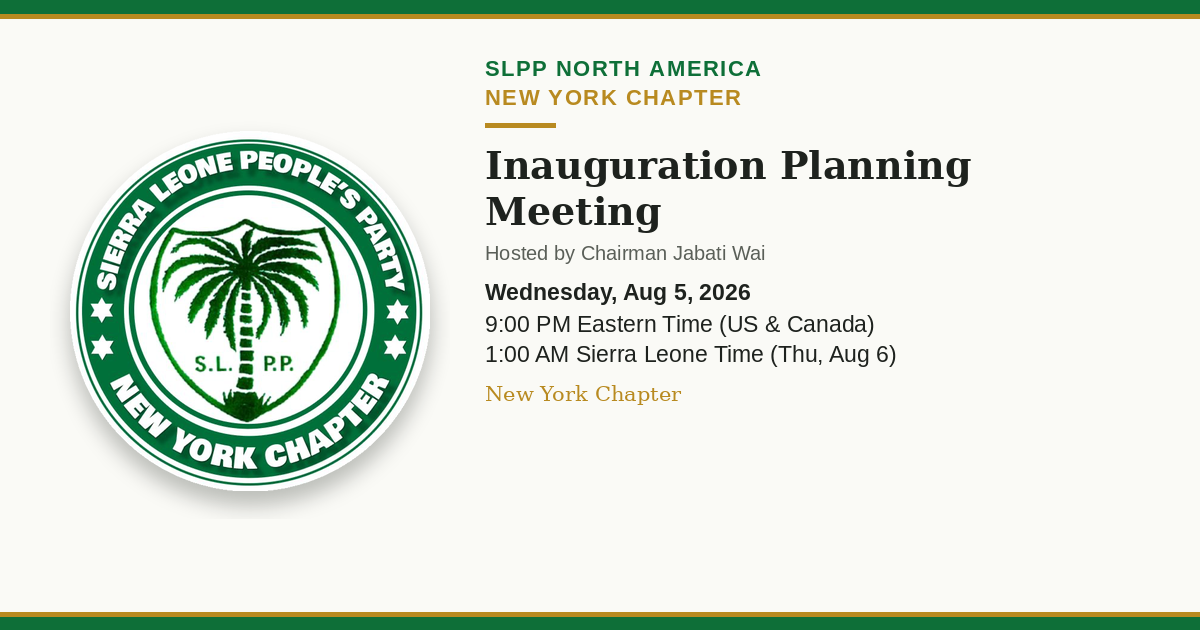
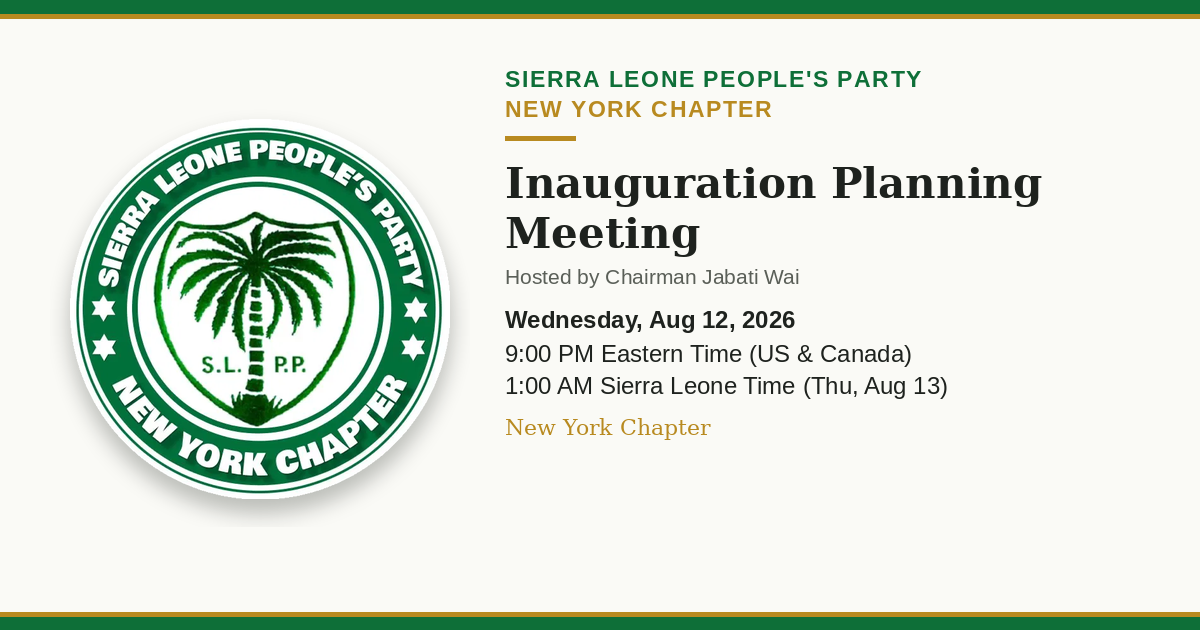
Add files via upload

Changed region(s): [[0.0617, 0.0905, 0.8633, 0.8143], [0.4008, 0.6635, 0.5858, 0.6937]]

diff --git a/slpp-invite.html b/slpp-invite.html
@@ -3,20 +3,20 @@
 <head>
 <meta charset="UTF-8">
 <meta name="viewport" content="width=device-width, initial-scale=1.0">
-<title>SLPP North America — New York Chapter Inauguration Planning Meeting — Aug 5, 2026</title>
-<meta name="description" content="Chairman Jabati Wai invites you to the SLPP North America, New York Chapter Inauguration Planning Meeting on Zoom, Wednesday August 5, 2026 at 9:00 PM Eastern Time.">
+<title>SLPP New York Chapter Inauguration Planning — Aug 12, 2026</title>
+<meta name="description" content="Chairman Jabati Wai invites you to the SLPP New York Chapter Inauguration Planning meeting on Zoom, Wednesday August 12, 2026 at 9:00 PM Eastern Time.">
 
 <!-- Open Graph -->
 <meta property="og:type" content="website">
-<meta property="og:title" content="SLPP NY Chapter Inauguration Planning Meeting — Aug 5, 2026, 9:00 PM ET">
-<meta property="og:description" content="Chairman Jabati Wai invites you to the SLPP North America, New York Chapter Inauguration Planning Meeting on Zoom. Tap to join instantly — no code or passcode needed.">
+<meta property="og:title" content="SLPP NY Chapter Inauguration Planning — Aug 12, 2026, 9:00 PM ET">
+<meta property="og:description" content="Chairman Jabati Wai invites you to the SLPP New York Chapter Inauguration Planning meeting on Zoom. Tap to join instantly — no code or passcode needed.">
 <meta property="og:image" content="https://slppnewyorkchapter.github.io/slpp-og-image.png">
 <meta property="og:image:width" content="1200">
 <meta property="og:image:height" content="630">
 <meta property="og:url" content="https://slppnewyorkchapter.github.io/slpp-invite.html">
 <meta name="twitter:card" content="summary_large_image">
-<meta name="twitter:title" content="SLPP NY Chapter Inauguration Planning Meeting — Aug 5, 2026, 9:00 PM ET">
-<meta name="twitter:description" content="Chairman Jabati Wai invites you to the SLPP North America, New York Chapter Inauguration Planning Meeting on Zoom. Tap to join instantly.">
+<meta name="twitter:title" content="SLPP NY Chapter Inauguration Planning — Aug 12, 2026, 9:00 PM ET">
+<meta name="twitter:description" content="Chairman Jabati Wai invites you to the SLPP New York Chapter Inauguration Planning meeting on Zoom. Tap to join instantly.">
 <meta name="twitter:image" content="https://slppnewyorkchapter.github.io/slpp-og-image.png">
 
 <link rel="icon" type="image/png" href="slpp-logo.png">
@@ -285,7 +285,7 @@
   </div>
 
   <div class="card">
-    <div class="eyebrow">SLPP North America</div>
+    <div class="eyebrow">Sierra Leone People's Party</div>
     <div class="eyebrow sub">New York Chapter</div>
     <h1>Inauguration Planning Meeting</h1>
     <div class="host">Hosted by <strong>Chairman Jabati Wai</strong></div>
@@ -299,9 +299,9 @@
         </svg>
       </div>
       <div class="dt-text">
-        <div class="day">Wednesday, August 5, 2026</div>
+        <div class="day">Wednesday, August 12, 2026</div>
         <div class="tz-row"><span class="tz-time">9:00 PM</span><span class="tz">Eastern Time (US &amp; Canada)</span></div>
-        <div class="tz-row"><span class="tz-time">1:00 AM</span><span class="tz">Sierra Leone Time (Thu, Aug 6)</span></div>
+        <div class="tz-row"><span class="tz-time">1:00 AM</span><span class="tz">Sierra Leone Time (Thu, Aug 13)</span></div>
       </div>
     </div>
 
@@ -322,7 +322,7 @@
     <div class="actions">
       <!-- Primary Zoom link: password already embedded via pwd= param, so it joins with no code required -->
       <a class="btn btn-primary"
-         href="https://us06web.zoom.us/j/83624595206?pwd=4uRx6MqlddrVEntzf6ZRnTEw3Uije9.1"
+         href="https://us06web.zoom.us/j/81915607656?pwd=63GXNKTTQxVfWy9glnFQfopH2DIaDZ.1"
          target="_blank" rel="noopener">
         <svg viewBox="0 0 24 24" fill="none" xmlns="http://www.w3.org/2000/svg">
           <rect x="2" y="6" width="14" height="12" rx="3" fill="white"/>
@@ -333,7 +333,7 @@
 
       <!-- One-tap mobile dial: comma-encoded tel: link auto-enters Meeting ID + passcode -->
       <a class="btn btn-secondary"
-         href="tel:+16469313860,,83624595206%23,,,,*196787%23">
+         href="tel:+16469313860,,81915607656%23,,,,*162760%23">
         <svg viewBox="0 0 24 24" fill="none" xmlns="http://www.w3.org/2000/svg">
           <path d="M6.6 10.8C7.9 13.4 10.6 16.1 13.2 17.4L15.3 15.3C15.6 15 16 14.9 16.4 15.1C17.6 15.6 18.9 15.9 20.2 15.9C20.8 15.9 21.3 16.4 21.3 17V20.4C21.3 21 20.8 21.5 20.2 21.5C10.6 21.5 2.9 13.8 2.9 4.2C2.9 3.6 3.4 3.1 4 3.1H7.4C8 3.1 8.5 3.6 8.5 4.2C8.5 5.5 8.8 6.8 9.3 8C9.5 8.4 9.4 8.8 9.1 9.1L6.6 10.8Z" stroke="#0e6f38" stroke-width="1.6" stroke-linejoin="round"/>
         </svg>
@@ -344,16 +344,16 @@
 
     <div class="details">
       <div class="details-title">Meeting details</div>
-      <div class="kv"><span class="k">Meeting ID</span><span class="v">836 2459 5206</span></div>
-      <div class="kv"><span class="k">Passcode</span><span class="v">196787</span></div>
-      <div class="kv"><span class="k">Alt. one-tap (NY)</span><span class="v"><a style="color:inherit;text-decoration:none;" href="tel:+16465588656,,83624595206%23,,,,*196787%23">+1 646 558 8656</a></span></div>
-      <div class="kv"><span class="k">Join by SIP</span><span class="v">83624595206@zoomcrc.com</span></div>
+      <div class="kv"><span class="k">Meeting ID</span><span class="v">819 1560 7656</span></div>
+      <div class="kv"><span class="k">Passcode</span><span class="v">162760</span></div>
+      <div class="kv"><span class="k">Alt. one-tap (NY)</span><span class="v"><a style="color:inherit;text-decoration:none;" href="tel:+16465588656,,81915607656%23,,,,*162760%23">+1 646 558 8656</a></span></div>
+      <div class="kv"><span class="k">Join by SIP</span><span class="v">81915607656@zoomcrc.com</span></div>
     </div>
 
     <div class="footer-note">
-      Prefer chat or another device? <a href="https://us06web.zoom.us/launch/jc/83624595206" target="_blank" rel="noopener">Open meeting chat</a>
+      Prefer chat or another device? <a href="https://us06web.zoom.us/launch/jc/81915607656" target="_blank" rel="noopener">Open meeting chat</a>
       &nbsp;·&nbsp;
-      <a href="https://us06web.zoom.us/meetings/83624595206/invitations?signature=JiukTq0sQbY5N_gMEf7D462l6rFrtGCQ8bnqIbfhdqI" target="_blank" rel="noopener">Full join instructions</a>
+      <a href="https://us06web.zoom.us/meetings/81915607656/invitations?signature=Wuy6O64nbVcakmxxnBeBVE_Zr2WqVDoH6RhTaxDez7E" target="_blank" rel="noopener">Full join instructions</a>
     </div>
   </div>
 
